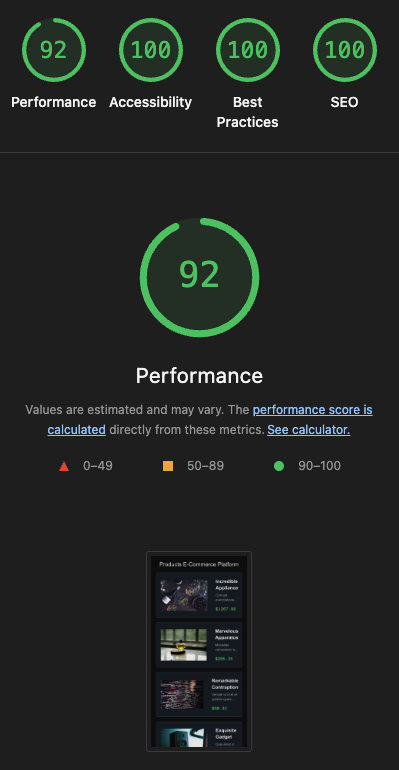
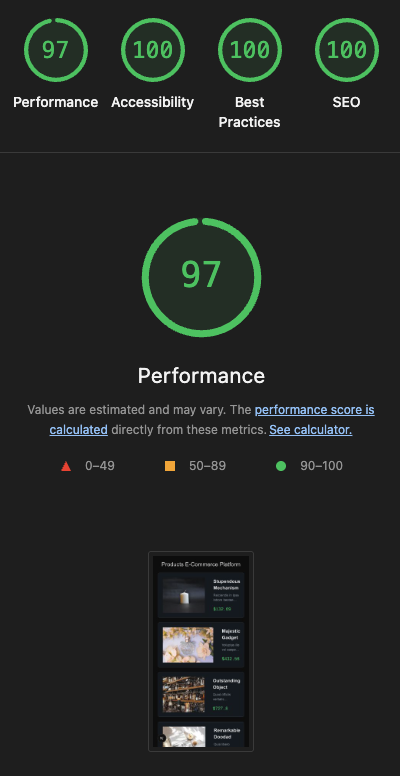
Now used mockData
Source had an issue with serving json but served html; access-denied for build; failing for deployment build

diff --git a/app/page.tsx b/app/page.tsx
@@ -3,23 +3,18 @@ import { Main } from "./components/main";
 import { Footer } from "./components/footer";
 import { ModelContextWrapper } from "./contexts";
 import { Modal } from "./components/modal";
-// eslint-disable-next-line @typescript-eslint/no-require-imports
-const axios = require("axios")
+import MockData from "./mockData.json"
 
-export default async function Home() {
-  const getData = async () => {
-    const res = await axios.get('https://jsonfakery.com/products/random/20')
-    return res.data.slice(0, 20)
-  }
-  const data = await getData()
+export default function Home() {
+  const products = MockData
 
   return (
     <ModelContextWrapper>
       <div className="flex flex-col items-center h-full w-full max-w-full max-h-full">
         <Header />
-        <Main products={data} />
+        <Main products={products} />
         <Footer />
-        <Modal products={data} />
+        <Modal products={products} />
       </div>
     </ModelContextWrapper>
   );

diff --git a/app/components/product-card/product-card.tsx b/app/components/product-card/product-card.tsx
@@ -32,7 +32,7 @@ export default function ProductCard({
                     priority
                     height={200}
                     width={200}
-                    className="object-cover place-self-center"
+                    className="w-auto h-full object-cover place-self-center"
                     sizes="200px"
                 />
             </div>
